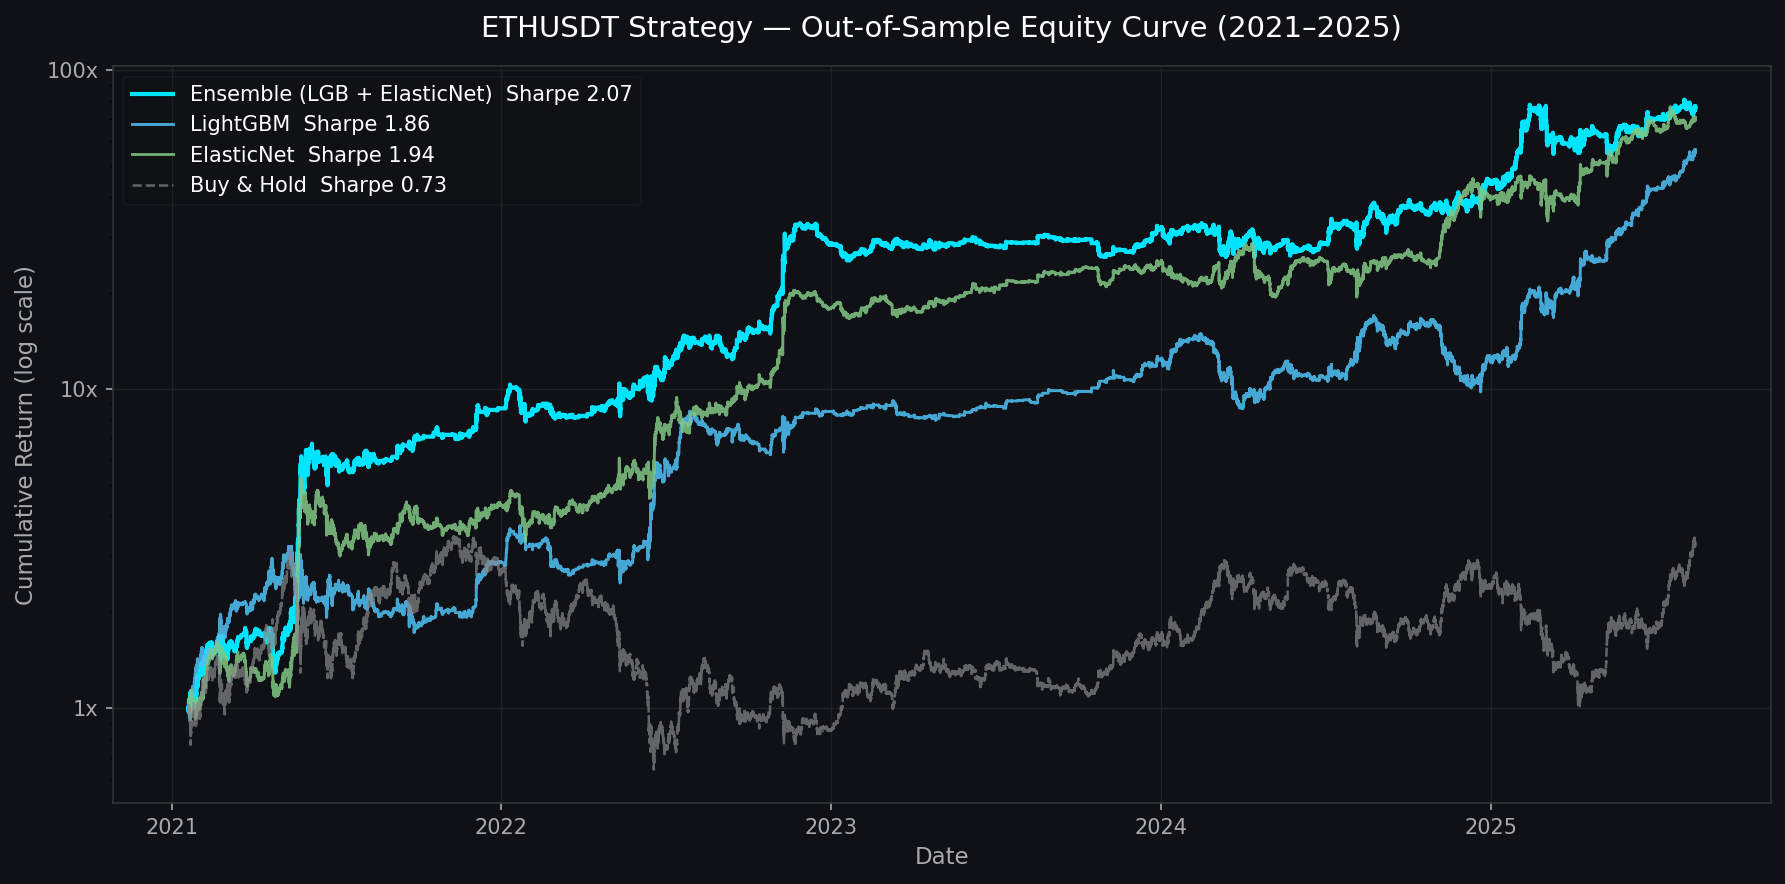
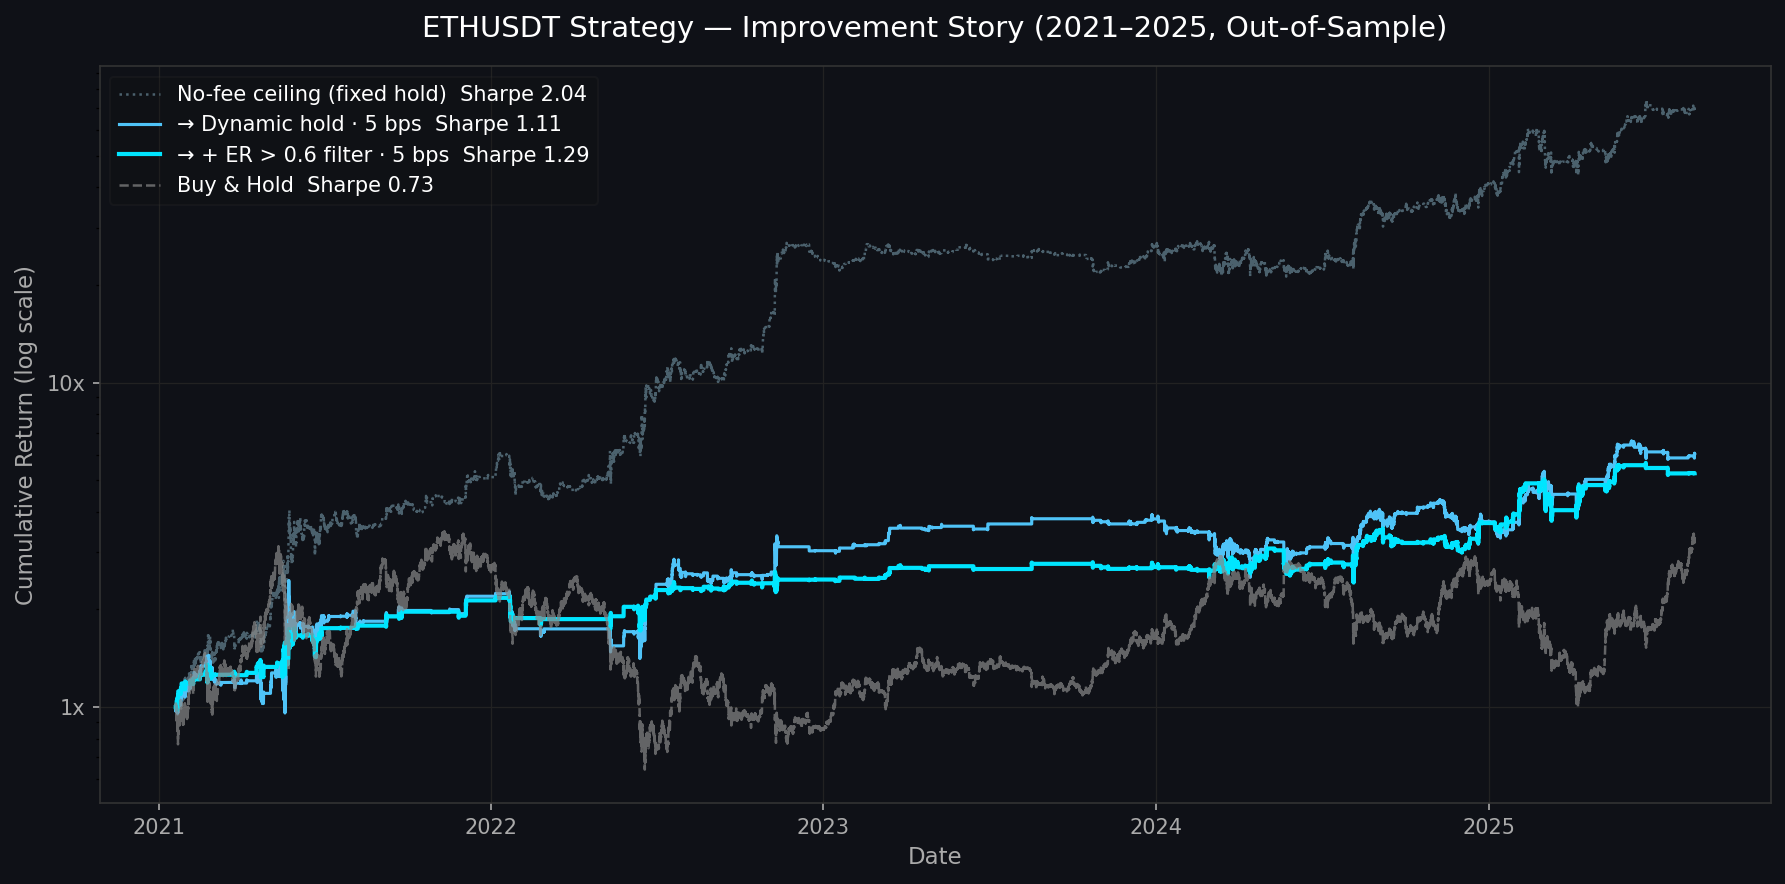
Update equity curve: improvement story plot with fee-adjusted curves
Replace no-fee-only plot with 4-curve improvement narrative:
- No-fee ceiling (fixed hold, Sharpe 2.04)
- Dynamic hold at 5 bps (Sharpe 1.11)
- Dynamic hold + ER>0.6 filter at 5 bps (Sharpe 1.29)
- Buy & Hold benchmark (Sharpe 0.73)

Legend labels use → arrows to show iterative improvement.

diff --git a/run_plot_equity.py b/run_plot_equity.py
@@ -1,6 +1,7 @@
 """
 run_plot_equity.py
-Generate equity curve plot: Ensemble vs LightGBM vs ElasticNet vs Buy & Hold.
+Strategy improvement story plotted as equity curves:
+  No-fee ceiling → Dynamic hold (5bps) → ER > 0.6 filter (5bps) vs Buy & Hold
 Saves to assets/equity_curve.png for README embedding.
 """
 import yaml
@@ -8,7 +9,6 @@ import numpy as np
 import pandas as pd
 import matplotlib.pyplot as plt
 import matplotlib.dates as mdates
-from collections import defaultdict
 from sklearn.linear_model import ElasticNet
 from sklearn.pipeline import Pipeline
 from sklearn.preprocessing import StandardScaler
@@ -16,17 +16,26 @@ import lightgbm as lgb
 from pathlib import Path
 
 from src.features import generate_features, get_data
-from src.signals import threshold_signals, build_position_holdN
+from src.signals import (threshold_signals, build_position_holdN,
+                         build_position_dynamic, build_position_filtered)
 
 BARS_PER_YEAR = 365 * 24 * 2
+COST_BPS      = 5
+ER_N          = 10
+BEST_ER       = 0.6
 
 df_raw = pd.read_csv('data/ETHUSDT.csv', parse_dates=['timestamp'], index_col='timestamp')
 
-with open('configs/strategy_lgb.yaml') as f:    cfg_lgb = yaml.safe_load(f)
+with open('configs/strategy_lgb.yaml')    as f: cfg_lgb = yaml.safe_load(f)
 with open('configs/strategy_linear.yaml') as f: cfg_lin = yaml.safe_load(f)
 
 HORIZON_BARS = cfg_lgb['horizon_bars']
 N_FOLDS      = cfg_lgb['walk_forward']['n_folds']
+
+# Efficiency Ratio on full price series
+direction = df_raw['close'].diff(ER_N).abs()
+noise     = df_raw['close'].diff().abs().rolling(ER_N).sum().replace(0, np.nan)
+er_full   = (direction / noise).clip(0, 1)
 
 df_lgb, target_lgb = generate_features(df_raw, feature_cols=cfg_lgb['features'], HORIZON_BARS=HORIZON_BARS)
 df_lin, target_lin = generate_features(df_raw, feature_cols=cfg_lin['features'], HORIZON_BARS=HORIZON_BARS)
@@ -35,91 +44,131 @@ lgb_model = lgb.LGBMRegressor(
     n_estimators=100, learning_rate=0.05, max_depth=5,
     min_child_samples=100, reg_alpha=0.1, reg_lambda=0.1,
     random_state=42, verbose=-1)
-
 en_model = Pipeline([
     ('scaler', StandardScaler()),
     ('model',  ElasticNet(alpha=0.0001, l1_ratio=0.5, max_iter=5000))
 ])
 
-lgb_preds, en_preds = [], []
-lgb_signals_list, en_signals_list = [], []
-X_folds = []
+lgb_z_list, en_z_list, X_folds = [], [], []
+thr_list, bias_list             = [], []
+nofee_signals_list              = []
 
+print("Training 8 folds...")
 for k in range(N_FOLDS):
     i = k * 0.1
-    X_train_lgb, X_valid_lgb, y_train_lgb, _ = get_data(df_lgb, target_lgb, split_pos=[i, i+0.2, i+0.3])
-    X_train_lin, X_valid_lin, y_train_lin, _ = get_data(df_lin, target_lin, split_pos=[i, i+0.2, i+0.3])
+    X_tl, X_vl, y_tl, _ = get_data(df_lgb, target_lgb, split_pos=[i, i+0.2, i+0.3])
+    X_tn, X_vn, y_tn, _ = get_data(df_lin, target_lin, split_pos=[i, i+0.2, i+0.3])
 
-    lgb_model.fit(X_train_lgb, y_train_lgb)
-    en_model.fit(X_train_lin, y_train_lin)
+    lgb_model.fit(X_tl, y_tl)
+    en_model.fit(X_tn, y_tn)
 
-    lgb_pred_train = lgb_model.predict(X_train_lgb)
-    lgb_pred_valid = lgb_model.predict(X_valid_lgb)
-    en_pred_train  = en_model.predict(X_train_lin)
-    en_pred_valid  = en_model.predict(X_valid_lin)
+    lgb_ptr = lgb_model.predict(X_tl);  lgb_pv = lgb_model.predict(X_vl)
+    en_ptr  = en_model.predict(X_tn);   en_pv  = en_model.predict(X_vn)
 
-    # standalone signals
-    lgb_thr = np.quantile(np.abs(lgb_pred_train), 0.8)
-    lgb_sig = threshold_signals(X_valid_lgb, lgb_pred_valid, threshold=lgb_thr, bias=lgb_pred_train.mean())
-    en_thr  = np.quantile(np.abs(en_pred_train), 0.8)
-    en_sig  = threshold_signals(X_valid_lin, en_pred_valid, threshold=en_thr, bias=en_pred_train.mean())
+    # z-score per model using training stats
+    lgb_z_tr = (lgb_ptr - lgb_ptr.mean()) / (lgb_ptr.std() + 1e-9)
+    en_z_tr  = (en_ptr  - en_ptr.mean())  / (en_ptr.std()  + 1e-9)
 
-    lgb_signals_list.append(lgb_sig)
-    en_signals_list.append(en_sig)
+    thr_list.append((np.quantile(np.abs(lgb_z_tr), 0.95) +
+                     np.quantile(np.abs(en_z_tr),  0.95)) / 2)
+    bias_list.append((lgb_z_tr.mean() + en_z_tr.mean()) / 2)
 
-    # z-scored for ensemble
-    lgb_z = pd.Series((lgb_pred_valid - lgb_pred_train.mean()) / (lgb_pred_train.std() + 1e-9),
-                       index=X_valid_lgb.index)
-    en_z  = pd.Series((en_pred_valid  - en_pred_train.mean())  / (en_pred_train.std()  + 1e-9),
-                       index=X_valid_lin.index)
+    shared = X_vl.index.intersection(X_vn.index)
+    lgb_z_v = pd.Series((lgb_pv - lgb_ptr.mean()) / (lgb_ptr.std() + 1e-9), index=X_vl.index).loc[shared]
+    en_z_v  = pd.Series((en_pv  - en_ptr.mean())  / (en_ptr.std()  + 1e-9), index=X_vn.index).loc[shared]
+    lgb_z_list.append(lgb_z_v)
+    en_z_list.append(en_z_v)
+    X_folds.append(X_vl.loc[shared])
 
-    shared = X_valid_lgb.index.intersection(X_valid_lin.index)
-    lgb_preds.append(lgb_z.loc[shared])
-    en_preds.append(en_z.loc[shared])
-    X_folds.append(X_valid_lgb.loc[shared])
+    # no-fee fixed-hold signals (80th pctile threshold on training z)
+    mean_z_v   = (lgb_z_v + en_z_v) / 2
+    nofee_thr  = (np.quantile(np.abs(lgb_z_tr), 0.8) + np.quantile(np.abs(en_z_tr), 0.8)) / 2
+    nofee_bias = (lgb_z_tr.mean() + en_z_tr.mean()) / 2
+    nofee_sig  = threshold_signals(X_vl.loc[shared], mean_z_v.values,
+                                   threshold=nofee_thr, bias=nofee_bias)
+    nofee_signals_list.append(nofee_sig)
 
-# full OOS series
-X_all    = pd.concat(X_folds)
-lgb_full = pd.concat(lgb_preds)
-en_full  = pd.concat(en_preds)
-r1       = df_lgb.loc[X_all.index, 'return_1'].astype(float)
+X_all  = pd.concat(X_folds)
+mean_z = (pd.concat(lgb_z_list) + pd.concat(en_z_list)) / 2
+r1     = df_lgb.loc[X_all.index, 'return_1'].astype(float)
+thr    = float(np.mean(thr_list))
+bias   = float(np.mean(bias_list))
+er     = er_full.loc[X_all.index]
 
-def equity_from_signals(signals, r1):
+
+# ── equity helpers ─────────────────────────────────────────────────────────────
+def equity_nofee(signals):
     pos = build_position_holdN(signals, HORIZON_BARS)
-    sr  = (pos * r1).dropna()
-    return (1 + sr).cumprod()
+    ret = (pos * r1).dropna()
+    return (1 + ret).cumprod()
 
-# ensemble signals
-mean_z    = (lgb_full + en_full) / 2
-ens_thr   = np.quantile(np.abs(mean_z), 0.8)
-ens_sig   = threshold_signals(X_all, mean_z.values, threshold=ens_thr, bias=mean_z.mean())
-ens_eq    = equity_from_signals(ens_sig, r1)
+def equity_fee(pos, cost_bps=COST_BPS):
+    r1p     = r1.loc[pos.index]
+    changes = pos.diff().fillna(pos.abs()).abs()
+    ret     = (pos * r1p - changes * (cost_bps / 10_000)).dropna()
+    return (1 + ret).cumprod()
 
-lgb_sig_full = pd.concat(lgb_signals_list)
-lgb_eq       = equity_from_signals(lgb_sig_full, df_lgb.loc[lgb_sig_full.index, 'return_1'].astype(float))
+def sharpe_from_pos(pos, cost_bps=COST_BPS):
+    r1p     = r1.loc[pos.index]
+    changes = pos.diff().fillna(pos.abs()).abs()
+    ret     = (pos * r1p - changes * (cost_bps / 10_000)).dropna()
+    std     = ret.std()
+    return ret.mean() / std * np.sqrt(BARS_PER_YEAR) if std > 0 else np.nan
 
-en_sig_full  = pd.concat(en_signals_list)
-en_r1        = df_lin.loc[en_sig_full.index, 'return_1'].astype(float)
-en_eq        = equity_from_signals(en_sig_full, en_r1)
 
-bh_eq = (1 + r1).cumprod()
+# ── build all curves ───────────────────────────────────────────────────────────
+# 1. No-fee fixed hold — theoretical ceiling
+nofee_sig_full = pd.concat(nofee_signals_list)
+pos_nofee      = build_position_holdN(nofee_sig_full, HORIZON_BARS)
+nofee_eq       = equity_nofee(nofee_sig_full)
+sh_nofee       = sharpe_from_pos(pos_nofee, cost_bps=0)
 
-# ── plot ───────────────────────────────────────────────────────────────────
+# 2. Dynamic hold, no filter, 5 bps
+pos_dyn  = build_position_dynamic(mean_z, entry_thr=thr, min_hold=HORIZON_BARS, bias=bias)
+dyn_eq   = equity_fee(pos_dyn)
+sh_dyn   = sharpe_from_pos(pos_dyn)
+
+# 3. Dynamic hold + ER > 0.6, 5 bps
+pos_er   = build_position_filtered(mean_z, entry_thr=thr, min_hold=HORIZON_BARS,
+                                   filter_series=er, filter_thr=BEST_ER, bias=bias)
+er_eq    = equity_fee(pos_er)
+sh_er    = sharpe_from_pos(pos_er)
+
+# 4. Buy & Hold
+bh_eq    = (1 + r1).cumprod()
+sh_bh    = r1.mean() / r1.std() * np.sqrt(BARS_PER_YEAR)
+
+print(f"\nSharpe summary:")
+print(f"  No-fee ceiling:      {sh_nofee:.2f}")
+print(f"  Dynamic hold 5bps:   {sh_dyn:.2f}")
+print(f"  + ER>0.6 filter 5bps:{sh_er:.2f}")
+print(f"  Buy & Hold:          {sh_bh:.2f}")
+
+
+# ── plot ───────────────────────────────────────────────────────────────────────
 Path('assets').mkdir(exist_ok=True)
 
 fig, ax = plt.subplots(figsize=(12, 6))
 fig.patch.set_facecolor('#0f1117')
 ax.set_facecolor('#0f1117')
 
-ax.semilogy(ens_eq.index, ens_eq.values,   color='#00e5ff', linewidth=2.0, label='Ensemble (LGB + ElasticNet)  Sharpe 2.07')
-ax.semilogy(lgb_eq.index, lgb_eq.values,   color='#4fc3f7', linewidth=1.4, label='LightGBM  Sharpe 1.86', alpha=0.85)
-ax.semilogy(en_eq.index,  en_eq.values,    color='#81c784', linewidth=1.4, label='ElasticNet  Sharpe 1.94', alpha=0.85)
-ax.semilogy(bh_eq.index,  bh_eq.values,    color='#888888', linewidth=1.2, label='Buy & Hold  Sharpe 0.73', linestyle='--', alpha=0.7)
+ax.semilogy(nofee_eq.index, nofee_eq.values,
+            color='#607d8b', linewidth=1.2, linestyle=':',  alpha=0.75,
+            label=f'No-fee ceiling (fixed hold)  Sharpe {sh_nofee:.2f}')
+ax.semilogy(dyn_eq.index,   dyn_eq.values,
+            color='#4fc3f7', linewidth=1.5,
+            label=f'→ Dynamic hold · {COST_BPS} bps  Sharpe {sh_dyn:.2f}')
+ax.semilogy(er_eq.index,    er_eq.values,
+            color='#00e5ff', linewidth=2.0,
+            label=f'→ + ER > {BEST_ER} filter · {COST_BPS} bps  Sharpe {sh_er:.2f}')
+ax.semilogy(bh_eq.index,    bh_eq.values,
+            color='#888888', linewidth=1.2, linestyle='--', alpha=0.7,
+            label=f'Buy & Hold  Sharpe {sh_bh:.2f}')
 
-ax.set_title('ETHUSDT Strategy — Out-of-Sample Equity Curve (2021–2025)',
+ax.set_title('ETHUSDT Strategy — Improvement Story (2021–2025, Out-of-Sample)',
              color='white', fontsize=14, pad=14)
-ax.set_xlabel('Date', color='#aaaaaa', fontsize=11)
-ax.set_ylabel('Cumulative Return (log scale)', color='#aaaaaa', fontsize=11)
+ax.set_xlabel('Date',                            color='#aaaaaa', fontsize=11)
+ax.set_ylabel('Cumulative Return (log scale)',   color='#aaaaaa', fontsize=11)
 
 ax.tick_params(colors='#aaaaaa')
 ax.xaxis.set_major_formatter(mdates.DateFormatter('%Y'))
@@ -130,10 +179,10 @@ for spine in ax.spines.values():
 ax.grid(True, color='#222222', linewidth=0.6)
 ax.yaxis.set_major_formatter(plt.FuncFormatter(lambda y, _: f'{y:.0f}x'))
 
-legend = ax.legend(loc='upper left', framealpha=0.2, fontsize=10,
-                   labelcolor='white', facecolor='#111111', edgecolor='#333333')
+ax.legend(loc='upper left', framealpha=0.2, fontsize=10,
+          labelcolor='white', facecolor='#111111', edgecolor='#333333')
 
 plt.tight_layout()
 plt.savefig('assets/equity_curve.png', dpi=150, bbox_inches='tight',
             facecolor=fig.get_facecolor())
-print("Saved: assets/equity_curve.png")
+print("\nSaved: assets/equity_curve.png")
